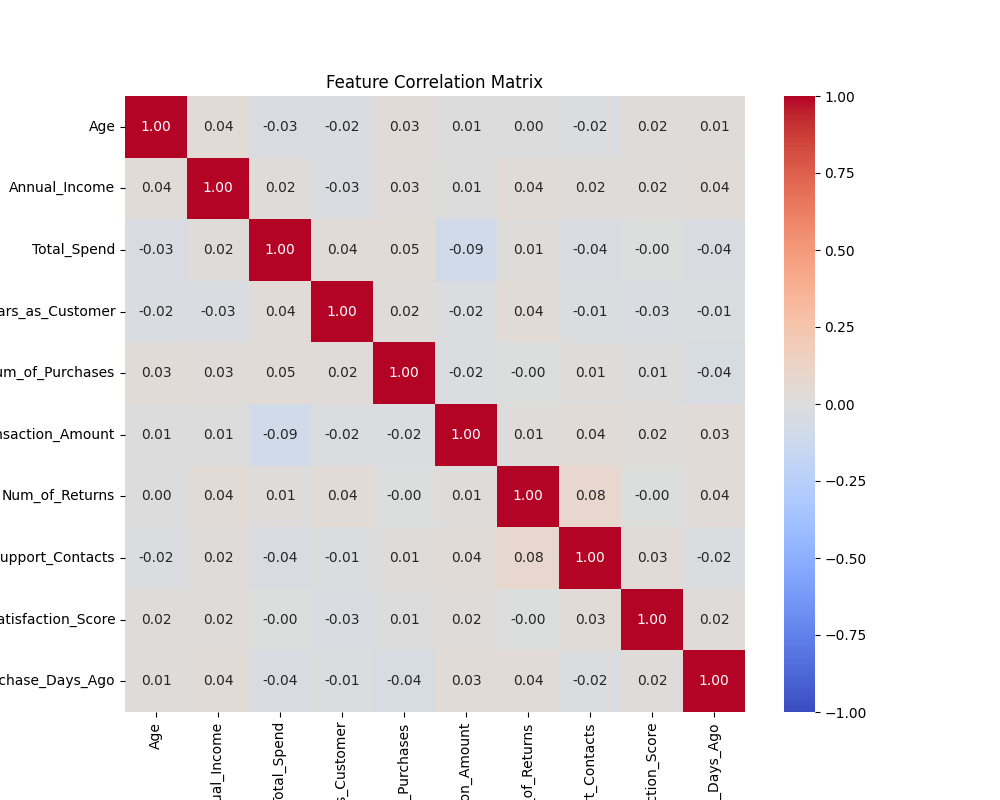
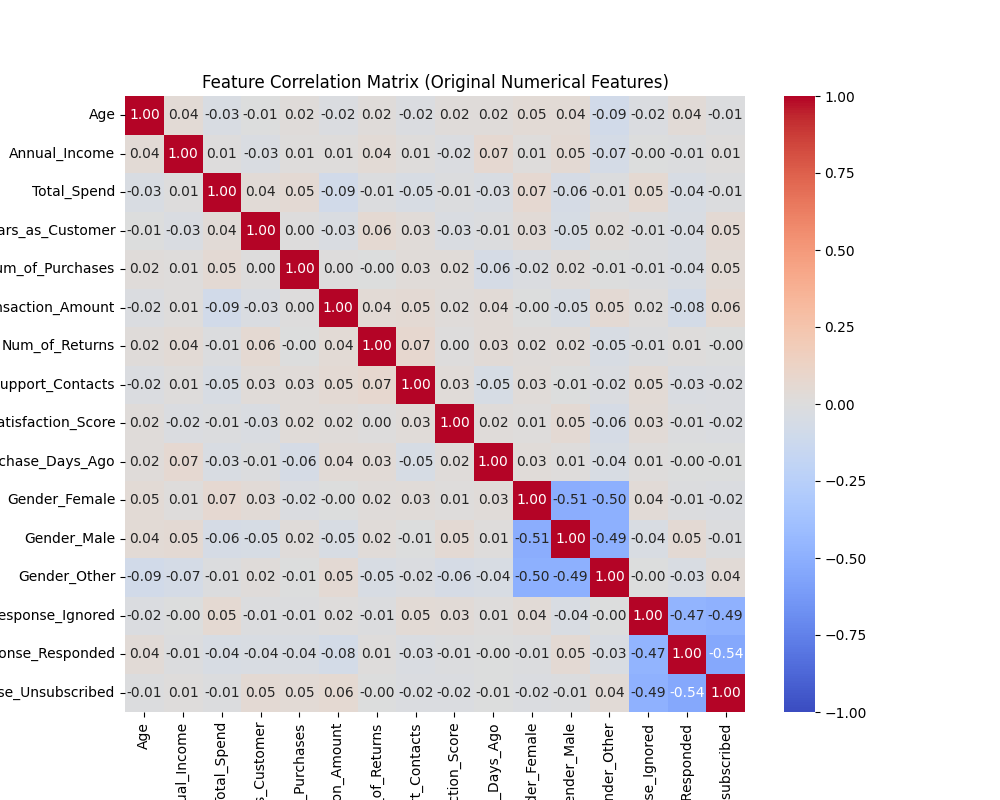
preprocess steps fix

Changed region(s): [[0.0, 0.0938, 0.744, 1.0], [0.217, 0.9062, 0.341, 1.0], [0.124, 0.9062, 0.186, 1.0]]

diff --git a/churn_model/prep/dataprep.py b/churn_model/prep/dataprep.py
@@ -1,4 +1,5 @@
 import numpy as np
+import pandas as pd
 import logging
 import seaborn as sns
 import matplotlib.pyplot as plt
@@ -106,21 +107,27 @@ class DataPrep:
 
         return df
 
-    def analyze_correlations(self, df):
-        """Analyze correlations between numerical features"""
+    def check_imbalance(self, y_train):
+        """Check if we need to handle imbalance with SMOTE"""
+        churn_rate = y_train.mean()
+        self.use_smote = churn_rate <= IMBALANCE_THRESHOLD
+        logging.info(f"Churn rate: {churn_rate:.2%} | SMOTE {'enabled' if self.use_smote else 'disabled'}")
 
-        # Ensure output directory exists
-        POST_DIR.mkdir(exist_ok=True)
+    def analyze_correlations(self, x_train_transformed, feature_names):
+        """Analyze correlations between numerical features after preprocessing"""
+        df = pd.DataFrame(x_train_transformed, columns=feature_names)
 
-        # Select only numerical features
-        numerical_cols = df.select_dtypes(include=['int64', 'float64']).columns
-        numerical_cols = [col for col in numerical_cols if col != TARGET_COL]
+        # Robust exclusion of one-hot encoded features
+        numerical_cols = [
+            col for col in df.columns
+            # Exclude any column that looks like one-hot encoded:
+            if not (col.startswith(('cat__', 'bool__')) or  # sklearn default pattern
+                    ('_' in col and col.split('_')[-1] in ['True', 'False', 'Yes', 'No']))]  # common binary encodings
 
         if len(numerical_cols) < 2:
             logging.warning("Not enough numerical features for correlation analysis")
             return
 
-        # Calculate correlation matrix
         corr_matrix = df[numerical_cols].corr()
         self.correlation_report = {
             'high_correlations': [],
@@ -132,11 +139,12 @@ class DataPrep:
         high_corr = []
         for i in range(len(corr_matrix.columns)):
             for j in range(i):
-                if abs(corr_matrix.iloc[i, j]) > CORRELATION_THRESHOLD:
+                corr_value = corr_matrix.iloc[i, j]
+                if abs(corr_value) > CORRELATION_THRESHOLD:
                     high_corr.append({
                         'feature1': corr_matrix.columns[i],
                         'feature2': corr_matrix.columns[j],
-                        'correlation': round(corr_matrix.iloc[i, j], 3)
+                        'correlation': round(corr_value, 3)
                     })
 
         self.correlation_report['high_correlations'] = high_corr
@@ -153,17 +161,11 @@ class DataPrep:
         plt.figure(figsize=(10, 8))
         sns.heatmap(corr_matrix, annot=True, fmt=".2f", cmap='coolwarm',
                     center=0, vmin=-1, vmax=1)
-        plt.title("Feature Correlation Matrix")
+        plt.title("Feature Correlation Matrix (Original Numerical Features)")
         plot_path = POST_DIR / 'feature_correlations.png'
         plt.savefig(plot_path)
         plt.close()
         logging.info(f"Saved correlation matrix plot to {plot_path}")
-
-    def check_imbalance(self):
-        """Check if we need to handle imbalance with SMOTE"""
-        churn_rate = self.data[TARGET_COL].mean()
-        self.use_smote = churn_rate <= IMBALANCE_THRESHOLD
-        logging.info(f"Churn rate: {churn_rate:.2%} | SMOTE {'enabled' if self.use_smote else 'disabled'}")
 
     @staticmethod
     def create_preprocessor(inputs_df):
@@ -171,13 +173,10 @@ class DataPrep:
         numeric_features = inputs_df.select_dtypes(include=['int64', 'float64']).columns.tolist()
         categorical_features = inputs_df.select_dtypes(include=['object', 'bool']).columns.tolist()
 
-        numeric_transformer = Pipeline(steps=[
-            ('scaler', StandardScaler())
-        ])
+        numeric_transformer = Pipeline(steps=[('scaler', StandardScaler())])
 
-        categorical_transformer = Pipeline(steps=[
-            ('onehot', OneHotEncoder(handle_unknown='ignore', sparse_output=False))
-        ])
+        categorical_transformer = Pipeline(steps=[('onehot', OneHotEncoder(handle_unknown='ignore',
+                                                                           sparse_output=False))])
 
         return ColumnTransformer(
             transformers=[
@@ -188,33 +187,16 @@ class DataPrep:
 
     def preprocess_data(self):
         """Complete preprocessing pipeline with proper ordering"""
-
         logging.info("Starting data preprocessing...")
         df = self.data.copy()
 
         # Step 1: Convert target to numeric
         df[TARGET_COL] = df[TARGET_COL].astype(int)
 
-        # Step 2: Handle missing values
-        df = self.analyze_missing_values(df)
-
-        # Step 3: Handle outliers
-        df = self.handle_outliers(df)
-
-        # Step 4: Check class imbalance
-        self.check_imbalance()
-
-        # Step 5: Analyze feature correlations
-        self.analyze_correlations(df)
-
-        # Define features and target
-        inputs_df = df.drop(TARGET_COL, axis=1)  # df of independent variables
+        # Step 2: Split data first to prevent leakage
+        inputs_df = df.drop(TARGET_COL, axis=1)
         target_df = df[TARGET_COL]
 
-        # Step 6: Create preprocessor
-        self.preprocessor = self.create_preprocessor(inputs_df)
-
-        # Step 7: Split data (80/20)
         self.X_train, self.X_test, self.y_train, self.y_test = train_test_split(
             inputs_df, target_df,
             test_size=TEST_SIZE,
@@ -222,26 +204,40 @@ class DataPrep:
             stratify=target_df
         )
 
-        # Step 8: Apply SMOTE if needed (only on training data)
+        # Step 3: Handle missing values (train and test separately)
+        self.X_train = self.analyze_missing_values(self.X_train)
+        self.X_test = self.analyze_missing_values(self.X_test)
+
+        # Step 4: Handle outliers (train and test separately)
+        self.X_train = self.handle_outliers(self.X_train)
+        self.X_test = self.handle_outliers(self.X_test)
+
+        # Step 5: Check class imbalance (training set only)
+        self.check_imbalance(self.y_train)
+
+        # Step 6: Create and fit preprocessor on training data only
+        self.preprocessor = self.create_preprocessor(self.X_train)
+        x_train_transformed = self.preprocessor.fit_transform(self.X_train)
+        x_test_transformed = self.preprocessor.transform(self.X_test)
+
+        # Step 7: Apply SMOTE if needed (only on training data)
         if self.use_smote:
             logging.info("Applying SMOTE for class imbalance")
             smote = SMOTE(random_state=RANDOM_STATE)
-            self.X_train, self.y_train = smote.fit_resample(
-                self.preprocessor.fit_transform(self.X_train),
+            x_train_transformed, self.y_train = smote.fit_resample(
+                x_train_transformed,
                 self.y_train
             )
-        else:
-            self.X_train = self.preprocessor.fit_transform(self.X_train)
 
-        # Transform test data (no fitting)
-        self.X_test = self.preprocessor.transform(self.X_test)
+        # Step 8: Analyze correlations (post-preprocessing, training data only)
+        feature_names = self.get_feature_names()
+        self.analyze_correlations(x_train_transformed, feature_names)
 
         logging.info("Data preprocessing completed successfully")
-
-        return self.X_train, self.X_test, self.y_train, self.y_test
+        return x_train_transformed, x_test_transformed, self.y_train, self.y_test
 
     def get_feature_names(self):
-        """Get all feature names after preprocessing (including one-hot encoded) for future SHAP analysis"""
+        """Get all feature names after preprocessing (including one-hot encoded)"""
         if not self.preprocessor:
             raise ValueError("Preprocessor not fitted yet")
 

diff --git a/churn_model/model/model.py b/churn_model/model/model.py
@@ -130,7 +130,7 @@ class ChurnModel:
 
     def evaluate_model(self, x_test, y_test):
         """Evaluate best model on test data using multiple metrics"""
-        y_pred = self.best_model.predict(x_test)  # Gives final class (0/1). For all metrics except roc_auc.
+        y_pred = self.best_model.predict(x_test)  # Gives final class (0/1) used for all metrics except roc_auc.
         y_proba = self.best_model.predict_proba(x_test)[:, 1]  # Gives probability scores. Used for roc_auc.
 
         return {
